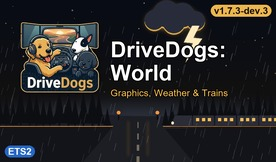
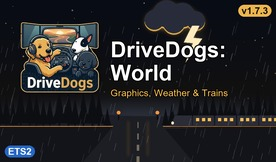
release world 1.7.3 after the playtest: junctions keep the game's surface, roads without the rut tilt
The maintainer compared 1.7.3-dev.3 with a rebuilt 1.7.1 at the Lisbon Marina crossroads ("dev.3 matches 1.7.1")
and asked for the release, review skipped. ADR-0002 decision 6 records it: junction, yard and parking materials keep
the game's effect, maps, shininess and specular and only get reflection 1 on asphalt layers where the game has 0
(rain-only; junction normal maps off, since a mapped junction layer could draw without sun light in dry weather), and
RRR's constant ~4 deg rut tilt is taken out of the road blends (RUT_FLAT_MEAN). The README's wet-roads line says both.
The 1.7.3 stage has exactly dev.3's files and materials. Every generator is up to date, sign defs 2,023/0, model
pairs 6,812/0 bad, and check --strict passes.

Changed region(s): [[0.7536, 0.0, 0.9565, 0.1235]]

diff --git a/docs/adr/ADR-0002-world-graphics.md b/docs/adr/ADR-0002-world-graphics.md
@@ -8,6 +8,8 @@
 - Amended: 2026-11-17 (1.7.1: Real companies' clamped base textures excluded, junction surfaces back to the game's;
   decisions 2 and 6)
 - Amended: 2026-11-19 (1.7.2: wet junctions back, one normal map and shininess on every paved layer; decision 6)
+- Amended: 2026-11-23 (1.7.3: junctions wet in rain only with the game's own surface, RRR's constant rut tilt taken out
+  of the roads; decision 6)
 
 ## Context
 
@@ -66,7 +68,10 @@
    puddle normal maps are blended (Reoriented Normal Mapping, BC5, at RRR's 2048 px with a full mip chain) into
    the 49 winning road normal maps, so Asphalt_improved keeps its surface detail. The ruts are strengthened where
    Asphalt's detail is rough (universal 1.6x, blkw 1.4x, country templates 1.0x), so the tracks reach RRR's own
-   depth. Its reflection/shine values are carried onto base materials (sidewalks, tiles, concrete, parking lots,
+   depth. RRR's maps average 131-135 where flat is 128, a constant ~4 deg tilt under the ruts that made a road up to
+   ~10% (universal ~13%) lighter or darker than flat asphalt in sun by direction of travel; its mean is taken out
+   before the blend (`RUT_FLAT_MEAN`; amended 2026-11-23, World 1.7.3), so the roads tilt 0.7-1.2 deg like the
+   game's own maps and the tracks keep their shape. Its reflection/shine values are carried onto base materials (sidewalks, tiles, concrete, parking lots,
    junctions); its junction rut maps are not used, so no RRR file ships unblended. Its colour textures, junction models, headlights, climate and rain files are not
    used. The blended textures are git-ignored and regenerated by the tool.
    Every blend has a grain floor: a surface detail smoother than 22 deg mean tilt (the country templates, the legacy
@@ -74,19 +79,18 @@
    buildings in patches. The legacy (pre-template) roads, ~8% of road items and most of the UK, which RRR never
    covered, get World's own wheel tracks (two troughs in each 0.25-U lane strip of their textures) and the templates'
    shininess 50 instead of Asphalt's 15.
-   Junction, yard and parking surfaces get one normal map and one shininess on every road and paved layer of a
-   material (`WET_JUNCTIONS`; amended 2026-11-19, World 1.7.2; maintainer: playtest of 1.7.2-dev.1, release), so the
-   layers of a blend differ only in colour, as in the game; grass and dirt layers get the flat map. Paved means any
-   road texture (the dark repair patches, rough and dusty asphalt, asphalt tiles), terrain asphalt and the junction
-   prefabs' asphalt-with-patches atlas. Where every paved layer is the road template's own texture on mesh UVs (55
-   materials, the slip-road joins) that map is the road's wheel-track blend; elsewhere (236, the UK prefabs and the
-   dark patches on world-generated UVs, where tracks cannot follow the lanes) it is a grain-only copy of the road's
-   map: its surface detail with the grain floor and no tracks (25 World-owned maps under `material/road/drivedog_wet/`,
-   34 MB, regenerated by the tool). The shininess is the road layer's, 50 where a legacy road layer is in the blend.
-   The tool fails if an edited material's paved layers differ in either. From 1.4.1 to 1.7.0 only the asphalt layer
-   got a map (`JUNCTION_NMAPS`, `LEGACY_JUNCTIONS`): in 77 two-layer blends the dark repair-patch (`dark_c2`-`c6`) or
-   terrain asphalt layer stayed flat with shininess 8, so in sun the jagged blend edges showed as lighter and darker
-   patches in junctions and roundabouts; 1.7.1 turned both off.
+   Junction, yard and parking surfaces (base `automat/` and `umatlib/` materials with no normal map and an asphalt
+   layer) keep the game's effect, maps, shininess and specular; only `reflection` / `reflection_secondary` go to 1 on
+   their asphalt layers where the game has 0 (`WET_JUNCTIONS`; amended 2026-11-23, World 1.7.3; maintainer: same-spot
+   A/B of 1.7.3-dev.3 against 1.7.1, release). `reflection` acts in rain only, so in dry weather a junction is the
+   game's, and in rain every asphalt layer of it darkens, shines and mirrors the sky like the road, without wet grain or
+   wheel tracks. Asphalt means the road colours World blends, the legacy road colours, the dark repair patches, rough
+   and dusty asphalt, terrain asphalt and the junction prefabs' asphalt-with-patches atlas. Junction normal maps are
+   off (`JUNCTION_NMAPS`): a normal map switches a junction material to the game's `.tsnmapcalc` effect, which lights
+   it in every weather. 1.4.1-1.7.0 gave only the asphalt layer of a blend a map (jagged lighter and darker patches
+   along the blend edges in sun; 1.7.1 turned it off); 1.7.2 gave every paved layer one map and one shininess, and
+   1.7.3-dev.1/.2 a 9-deg fine grain on every asphalt layer, and in dry sun one asphalt layer of a two-layer junction
+   could still draw without sun light (Lisbon Marina crossroads, sky-blue and ~3x darker than its twin layer).
 7. **Kass:** lightning (20 bolt/cloud sets), thunder bank, and the water textures 1.61 uses (wave maps, river, muddy
    and green water, panorama, Balkan water plants), replacing Beautiful Water; beaches stay grass_4.0's. Its rain
    sounds, particles, spray, windshield, `game_data` and camera are not used.

diff --git a/README.md b/README.md
@@ -4,7 +4,7 @@ ETS2 mod for the world around the road, built as a local **megapack** with the `
 `scs-mod-developer` agent profile. This repo holds only configuration and tools. The mod is built from the
 extracted base game, subscribed Workshop items and one local archive. It is never redistributed.
 
-Current content (v1.7.2, ETS2 1.62.1.0, checked on 1.62.3.3):
+Current content (v1.7.3, ETS2 1.62.1.0, checked on 1.62.3.3):
 
 - **Graphics** from Juninho944 (Weather_3.9, Asphalt_improved, grass_4.0_lite, tree_improved_4k), DIOX (Beautiful
   Nature), Darkcaptain (Realistic Rain) and DBM (Vegetation, Terrain Textures, Road Textures, Guard Rails 4K, World &
@@ -13,9 +13,10 @@ Current content (v1.7.2, ETS2 1.62.1.0, checked on 1.62.3.3):
 - **Water** from DBM Water (lake waves, foam, shores, beaches) and Kass (rivers, distant water); **lightning and
   thunder** from Kass (Realistic Rain & Water & Thunder Sounds).
 - **Wet roads**: Grimes' Realistic Rain Reflections wheel tracks blended into the winning road normal maps
-  (World's own on the older roads), a rough wet grain on every asphalt road, its wet reflections on sidewalks, tiles,
-  concrete and junctions (every asphalt of a junction gets the same wet grain, with the road's wheel tracks where a junction
-  continues the road's own surface), and a softer sky mirror so the asphalt shows through. Needs the game's rain reflections and reflection quality set high.
+  (World's own on the older roads; without the tracks' constant tilt, so a road is as bright as the game's asphalt in
+  sun), a rough wet grain on every asphalt road, its wet reflections on sidewalks, tiles, concrete and junctions (every
+  asphalt of a junction gets wet in rain and keeps the game's own surface in dry weather), and a softer sky mirror so
+  the asphalt shows through. Needs the game's rain reflections and reflection quality set high.
 - **Road signs and markings** from DBM Road Signs & Markings 4K; **real company and gas station brands** from Real
   companies & gas stations (MLH82, 4of25), its pre-1.62 gas-station models given 1.62's looks and price boards.
 - **Weather and time**: a rain mix of mostly light and medium rain, lighter rain fog at night so headlights reach and
